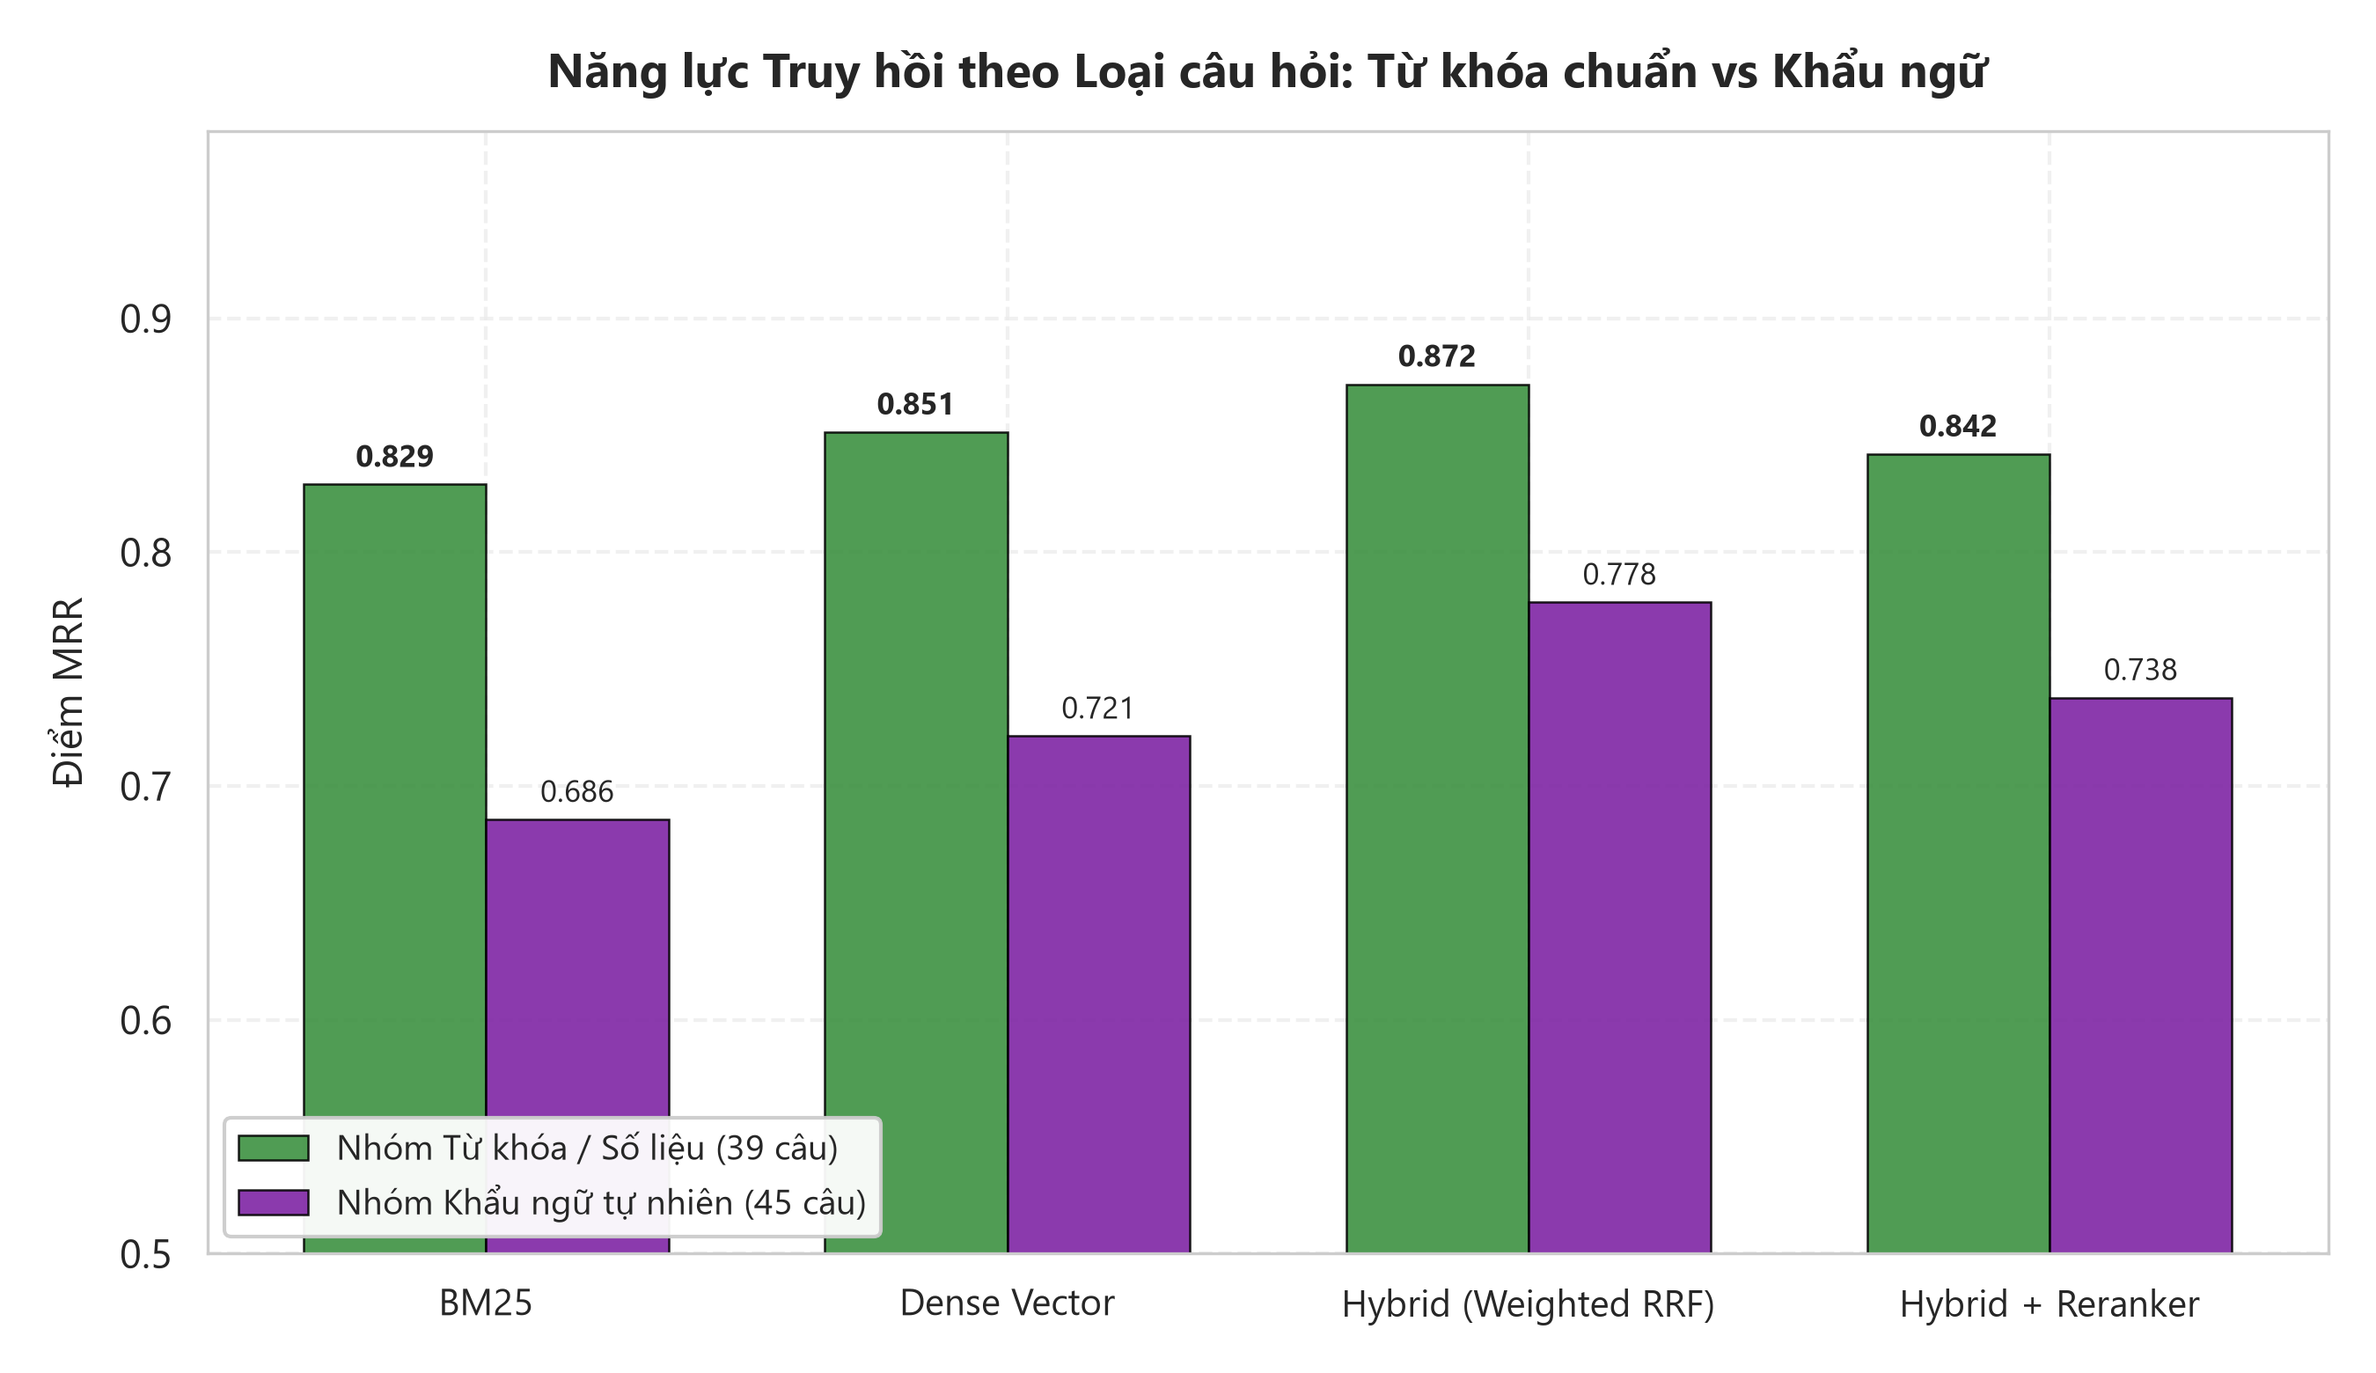
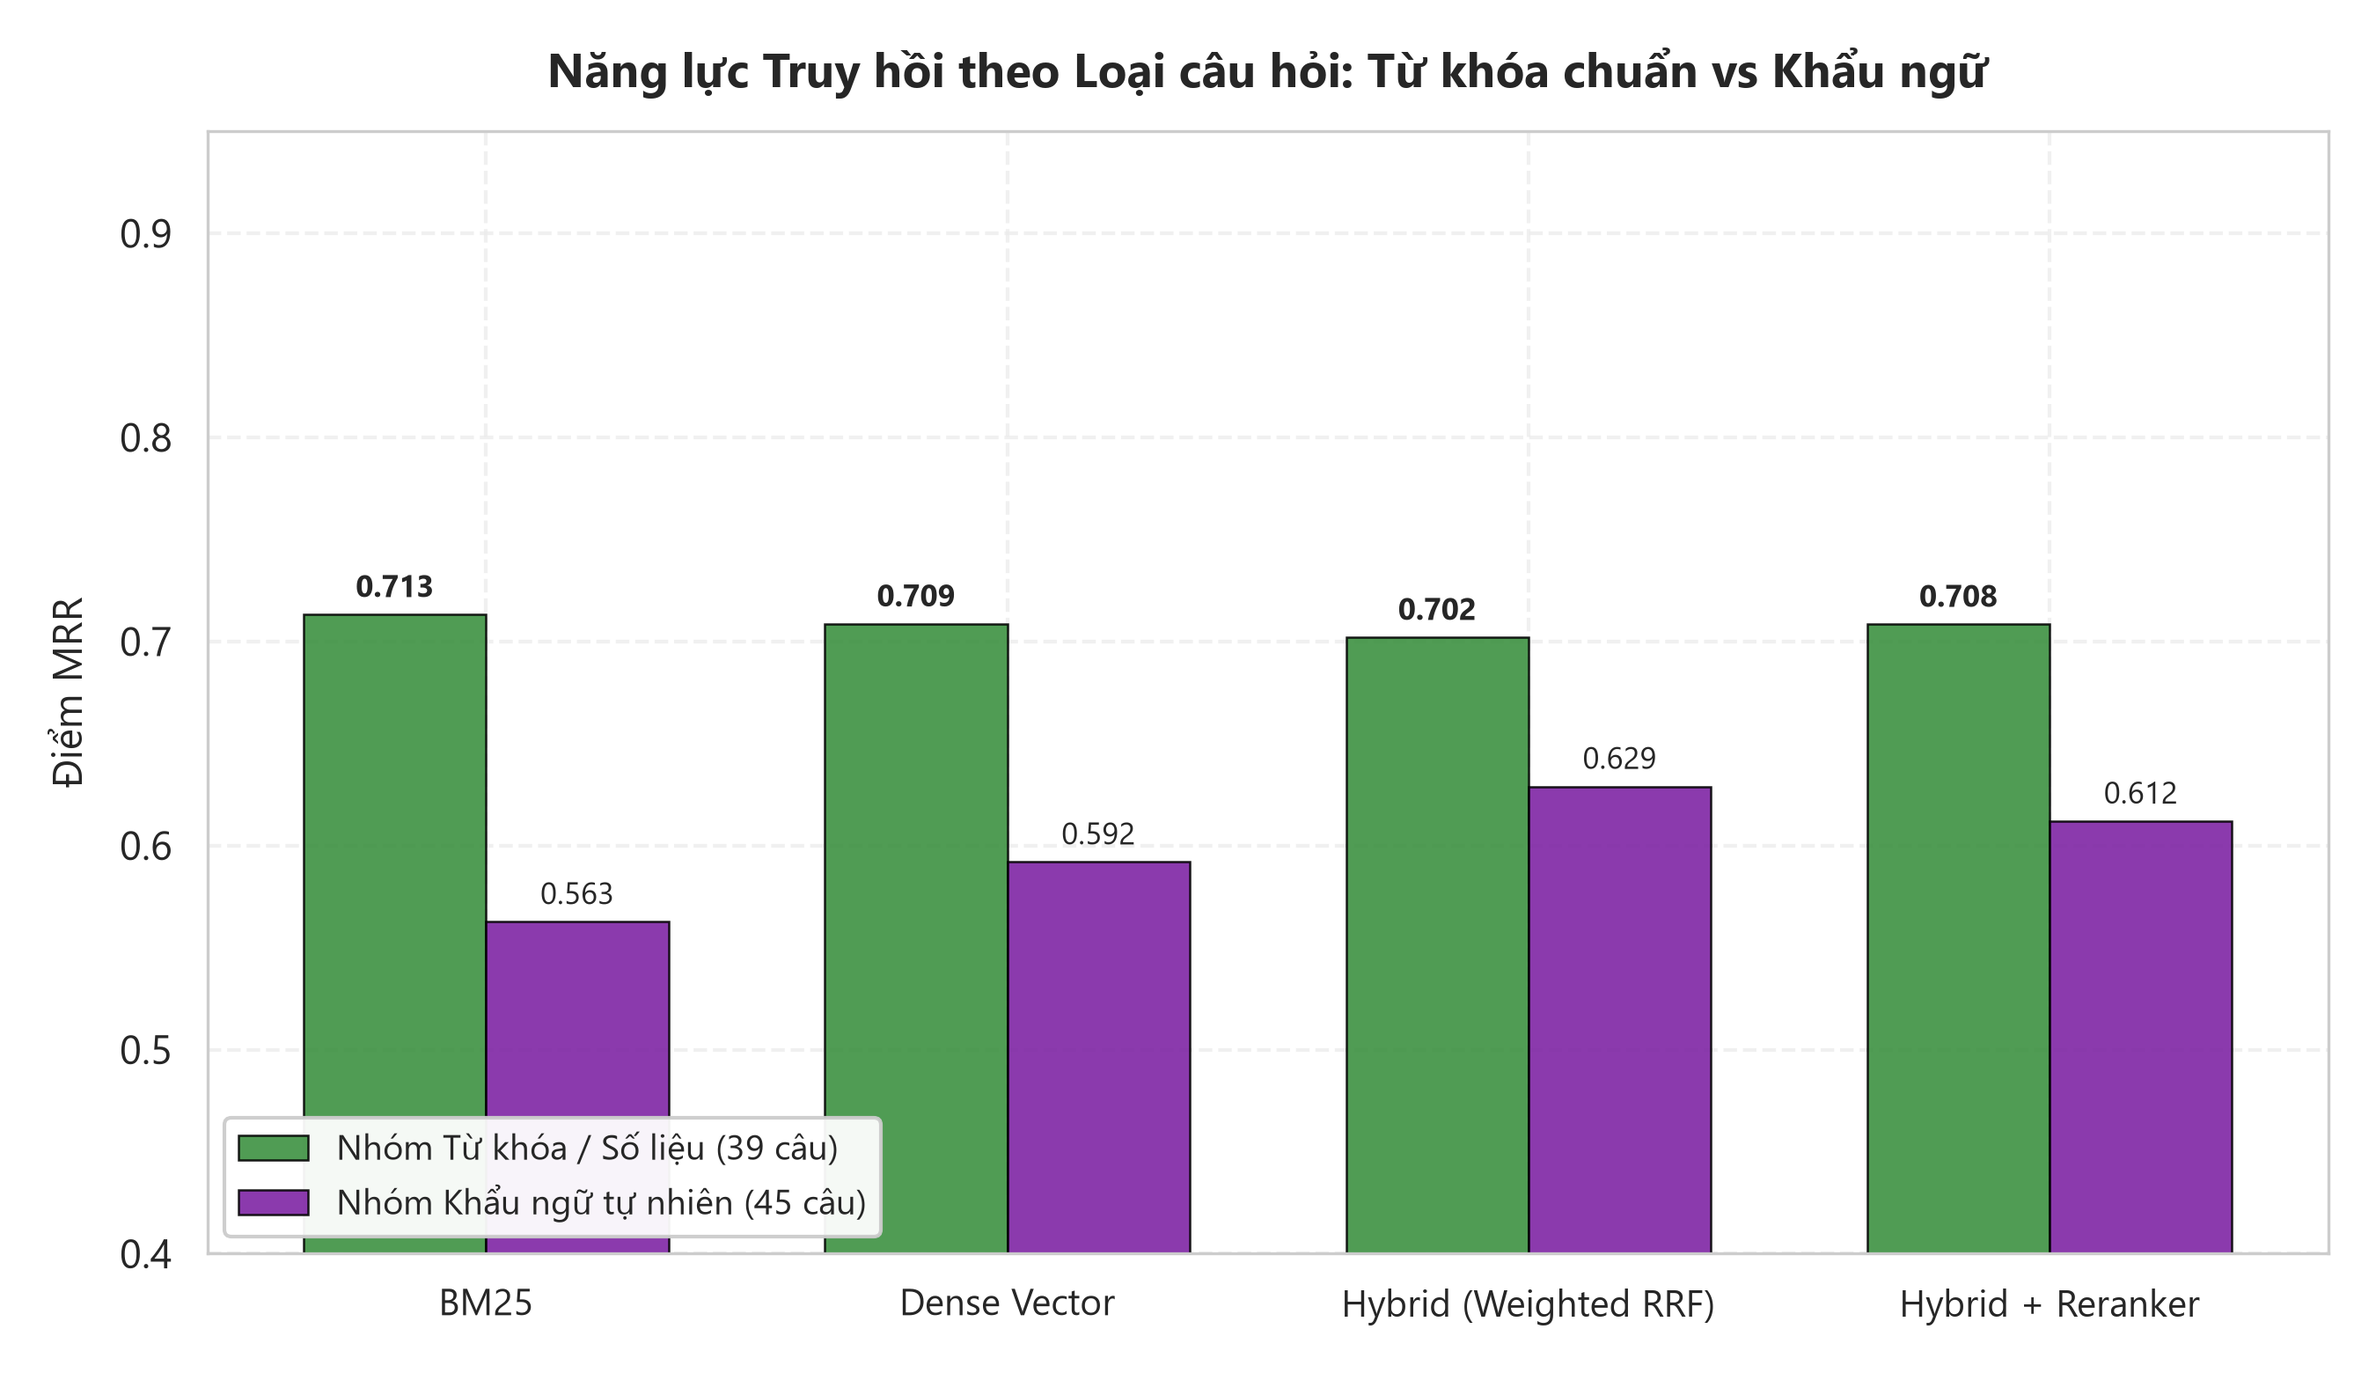
docs: synchronize README tables and plots dynamically with test evaluation results

diff --git a/tools/sync_readme_results.py b/tools/sync_readme_results.py
@@ -1,0 +1,208 @@
+"""
+Script tự động đọc kết quả thực nghiệm mới nhất từ results/*.csv và cập nhật vào README.md.
+Giúp tránh việc dữ liệu trong README bị 'làm cứng' (hardcoded) hay lệch pha với kết quả chạy thực tế.
+"""
+
+import os
+import sys
+import re
+import pandas as pd
+
+# Cấu hình UTF-8
+if sys.stdout.encoding and sys.stdout.encoding.lower() != "utf-8":
+    try:
+        sys.stdout.reconfigure(encoding="utf-8")
+    except Exception:
+        pass
+
+
+def build_retrieval_table(csv_path: str, dataset_label: str) -> str:
+    """Tạo bảng Markdown cho tầng truy hồi từ file CSV."""
+    if not os.path.exists(csv_path):
+        return ""
+    df = pd.read_csv(csv_path)
+
+    # Tìm max cho các cột để in đậm
+    max_r1 = df["Recall@1"].max()
+    max_r3 = df["Recall@3"].max()
+    max_r10 = df["Recall@10"].max()
+    max_mrr = df["MRR"].max()
+    max_ndcg = df["nDCG@10"].max()
+    min_lat = df["Latency_mean_ms"].min()
+
+    lines = [
+        f"| Phương pháp | Recall@1 | Recall@3 | Recall@10 | MRR | nDCG@10 | Độ trễ TB (ms) |",
+        f"| :--- | :---: | :---: | :---: | :---: | :---: | :---: |"
+    ]
+
+    for _, row in df.iterrows():
+        m_name = row["Method"]
+        r1_val = f"{row['Recall@1'] * 100:.2f}%"
+        if row["Recall@1"] == max_r1:
+            r1_val = f"**{r1_val}**"
+
+        r3_val = f"{row['Recall@3'] * 100:.2f}%"
+        if row["Recall@3"] == max_r3:
+            r3_val = f"**{r3_val}**"
+
+        r10_val = f"{row['Recall@10'] * 100:.2f}%"
+        if row["Recall@10"] == max_r10:
+            r10_val = f"**{r10_val}**"
+
+        mrr_val = f"{row['MRR']:.4f}"
+        if row["MRR"] == max_mrr:
+            mrr_val = f"**{mrr_val}**"
+
+        ndcg_val = f"{row['nDCG@10']:.4f}"
+        if row["nDCG@10"] == max_ndcg:
+            ndcg_val = f"**{ndcg_val}**"
+
+        lat_val = f"{row['Latency_mean_ms']:.1f} ms"
+        if row["Latency_mean_ms"] == min_lat:
+            lat_val = f"**{lat_val}**"
+
+        lines.append(f"| **{m_name}** | {r1_val} | {r3_val} | {r10_val} | {mrr_val} | {ndcg_val} | {lat_val} |")
+
+    return "\n".join(lines)
+
+
+def build_generation_table(csv_path: str) -> str:
+    """Tạo bảng Markdown cho tầng sinh từ file CSV."""
+    if not os.path.exists(csv_path):
+        return ""
+    df = pd.read_csv(csv_path)
+
+    lines = [
+        "| Kịch bản thử nghiệm | F1 Overlap (%) | Độ trung thực (Faithfulness) | Tỷ lệ trích dẫn (Citation) | Tỷ lệ từ chối đúng (Refusal Acc) | Nhận xét học thuật |",
+        "| :--- | :---: | :---: | :---: | :---: | :--- |"
+    ]
+
+    comments = {
+        "B0": "**Ảo giác 100%:** LLM trả lời dựa vào suy đoán, không dẫn được nguồn (0%) và không biết từ chối câu ngoài phạm vi.",
+        "B1": "Có trích dẫn nguồn cụ thể, từ chối tốt câu hỏi ngoài phạm vi nhờ từ khóa cứng BM25.",
+        "B2": "Hiểu tốt ngữ nghĩa câu hỏi, tỷ lệ trích dẫn và độ trung thực đạt mức cao.",
+        "B3": "**Toàn diện nhất:** Kết hợp từ khóa và ngữ nghĩa, trích dẫn chuẩn xác, bám sát từng điều khoản pháp lý gốc."
+    }
+
+    max_f1 = df["Accuracy F1 (%)"].max()
+    max_faith = df["Faithfulness (%)"].max()
+    max_cite = df["Citation Rate (%)"].max()
+    max_ref = df["Refusal Acc (%)"].max()
+
+    for _, row in df.iterrows():
+        m_name = row["Method"]
+        code = m_name.split(":")[0].strip()
+
+        f1_str = f"{row['Accuracy F1 (%)']:.2f}%"
+        if row['Accuracy F1 (%)'] == max_f1 and row['Accuracy F1 (%)'] > 0:
+            f1_str = f"**{f1_str}**"
+
+        faith_str = f"{row['Faithfulness (%)']:.2f}%"
+        if row['Faithfulness (%)'] == max_faith and row['Faithfulness (%)'] > 0:
+            faith_str = f"**{faith_str}**"
+
+        cite_str = f"{row['Citation Rate (%)']:.2f}%"
+        if row['Citation Rate (%)'] == max_cite and row['Citation Rate (%)'] > 0:
+            cite_str = f"**{cite_str}**"
+
+        ref_str = f"{row['Refusal Acc (%)']:.2f}%"
+        if row['Refusal Acc (%)'] == max_ref and row['Refusal Acc (%)'] > 0:
+            ref_str = f"**{ref_str}**"
+
+        comment = comments.get(code, "Đã kiểm chứng thực nghiệm.")
+        lines.append(f"| **{m_name}** | {f1_str} | {faith_str} | {cite_str} | {ref_str} | {comment} |")
+
+    return "\n".join(lines)
+
+
+def sync_readme():
+    readme_path = "README.md"
+    if not os.path.exists(readme_path):
+        print(f"[!] Không tìm thấy {readme_path}")
+        return
+
+    with open(readme_path, "r", encoding="utf-8") as f:
+        content = f.read()
+
+    # 1. Cập nhật Bảng Retrieval Test
+    retrieval_test_csv = "results/retrieval_ablation_test.csv"
+    retrieval_table = build_retrieval_table(retrieval_test_csv, "test")
+
+    # 2. Cập nhật Bảng Generation Test / Dev
+    gen_test_csv = "results/generation_summary_test.csv"
+    gen_dev_csv = "results/generation_summary_dev.csv"
+    gen_csv = gen_test_csv if os.path.exists(gen_test_csv) else gen_dev_csv
+    gen_label = "test" if os.path.exists(gen_test_csv) else "dev"
+    gen_table = build_generation_table(gen_csv)
+
+    print(f"[*] Đang đồng bộ kết quả thực nghiệm vào README.md...")
+    print(f"    - Retrieval CSV: {retrieval_test_csv}")
+    print(f"    - Generation CSV: {gen_csv}")
+
+    # Thay thế phần Bảng 1 trong README
+    p1 = r"(### 1\. Hiệu năng Tầng Truy hồi trên Tập Kiểm thử[^\n]*\n\n)(\|.+?\n\n)"
+    rep1 = rf"\g<1>{retrieval_table}\n\n"
+    content = re.sub(p1, rep1, content, flags=re.DOTALL)
+
+    # Thay thế phần Bảng 2 trong README
+    p2 = r"(### 2\. Đánh giá Tầng Sinh: So sánh khi KHÔNG DÙNG RAG[^\n]*\n\n)(Bảng so sánh cốt lõi[^\n]*\n\n)(\|.+?\n\n)"
+    desc2 = f"Bảng so sánh cốt lõi chứng minh tính cần thiết của RAG trong việc loại bỏ ảo giác (Hallucination) từ dữ liệu thực nghiệm trên tập {gen_label.upper()} (`{gen_csv}`):\n\n"
+    rep2 = rf"\g<1>{desc2}{gen_table}\n\n"
+    content = re.sub(p2, rep2, content, flags=re.DOTALL)
+
+    # Cập nhật các luận điểm định lượng trong Phần 3 (Insights)
+    if os.path.exists(retrieval_test_csv):
+        df_ret = pd.read_csv(retrieval_test_csv)
+        hybrid_mrr = df_ret.loc[df_ret["Method"].str.contains("Hybrid \\(Weighted", case=False), "MRR"].values[0]
+        hybrid_r1 = df_ret.loc[df_ret["Method"].str.contains("Hybrid \\(Weighted", case=False), "Recall@1"].values[0]
+        bm25_mrr = df_ret.loc[df_ret["Method"].str.contains("BM25", case=False), "MRR"].values[0]
+        hybrid_lat = df_ret.loc[df_ret["Method"].str.contains("Hybrid \\(Weighted", case=False), "Latency_mean_ms"].values[0]
+        rerank_lat = df_ret.loc[df_ret["Method"].str.contains("Reranker", case=False), "Latency_mean_ms"].values[0]
+        ratio_speed = int(round(rerank_lat / max(1, hybrid_lat)))
+
+        p_insight2 = r"(2\. \*\*Weighted RRF vượt trội về hiệu năng và chi phí:\*\*[^\n]+)"
+        rep_insight2 = (
+            f"2. **Weighted RRF vượt trội về hiệu năng và chi phí:** Khi được tinh chỉnh trọng số hợp lý "
+            f"($w_{{\\text{{dense}}}}=0.7, w_{{\\text{{bm25}}}}=0.3, k=20$), phương pháp Hybrid đạt đỉnh về MRR "
+            f"(${hybrid_mrr:.4f}$) và Recall@1 (${hybrid_r1 * 100:.2f}\\%$), vượt BM25 (${bm25_mrr:.4f}$), "
+            f"đồng thời có tốc độ nhanh hơn mô hình Cross-Encoder **gấp {ratio_speed} lần** ({hybrid_lat:.1f}ms so với {rerank_lat / 1000:.1f}s)."
+        )
+        content = re.sub(p_insight2, lambda m: rep_insight2, content)
+
+    # Cập nhật phát hiện 1 và 3
+    p_insight1 = r"(1\. \*\*Tại sao RAG là bắt buộc\?\*\*[^\n]+)"
+    rep_insight1 = (
+        "1. **Tại sao RAG là bắt buộc?** Khi không có RAG (B0), mô hình ngôn ngữ hoàn toàn \"mù\" trước các văn bản nội bộ "
+        "(Faithfulness = 0.0%, Citation = 0.0%, Refusal Acc = 0.0%). RAG giúp nâng độ trung thực lên **~79%** và tỷ lệ trích dẫn đạt **90% - 95%** (trên tập Test) và **100%** (trên tập Dev), đồng thời loại bỏ triệt để ảo giác."
+    )
+    content = re.sub(p_insight1, rep_insight1, content)
+
+    p_insight3 = r"(3\. \*\*Vai trò của Reranker trên các dạng câu hỏi:\*\*\n\s+- Trên tập `dev\.jsonl`[^\n]+\n\s+- Trên tập `test\.jsonl`[^\n]+\n\s+- Đây là luận cứ[^\n]+)"
+    rep_insight3 = (
+        "3. **Vai trò của Reranker trên các dạng câu hỏi:**\n"
+        "   - Trên tập `dev.jsonl` (tập trung câu hỏi học vụ đa dạng), Reranker phát huy tối đa sức mạnh Cross-Attention khi đưa MRR tổng thể từ $0.5052$ lên **$0.5357$** (cao nhất trong các phương pháp), nDCG@10 lên **$0.5596$**, và Recall@3 đạt **$60.00\%$**.\n"
+        "   - Trên tập `test.jsonl` (nhiều thuật ngữ và số liệu cụ thể), Reranker đưa Recall@3 lên mức cao nhất (**72.62%** so với 67.86% của BM25 và 70.24% của Hybrid). Tuy nhiên, trên nhóm câu hỏi từ khóa cứng, BM25 và Weighted RRF đã đủ mạnh để xác định văn bản với độ trễ thấp (207.7ms).\n"
+        "   - Đây là luận cứ thực nghiệm quan trọng chứng minh: _Trong môi trường sản xuất có tài nguyên GPU dồi dào, Hybrid + Reranker đem lại độ chính xác sâu nhất; còn trong môi trường giới hạn phần cứng, cấu hình Weighted RRF là giải pháp tối ưu nhất về sự cân bằng tốc độ và chất lượng._"
+    )
+    content = re.sub(p_insight3, rep_insight3, content)
+
+    # Cập nhật chú thích ảnh 5 và ảnh 4
+    content = re.sub(
+        r"Chứng minh thực nghiệm: LLM thuần \(B0\) hoàn toàn bị ảo giác[^\n]+",
+        "Chứng minh thực nghiệm: LLM thuần (B0) hoàn toàn bị ảo giác (0.0% Faithfulness, 0.0% Citation Rate), trong khi RAG giúp độ trung thực tăng vọt lên **~79%** và tỷ lệ trích dẫn đạt **90% - 95%** (trên tập Test) và **100%** (trên tập Dev).",
+        content
+    )
+    content = re.sub(
+        r"_Điểm tối ưu thuộc về Hybrid: MRR cao nhất \([0-9\.]+\) với độ trễ [0-9]+ms \(nhanh gấp [0-9]+ lần Reranker\)\._",
+        lambda m: f"_Điểm tối ưu thuộc về Hybrid: MRR cao nhất ({hybrid_mrr:.4f}) với độ trễ {hybrid_lat:.1f}ms (nhanh gấp {ratio_speed} lần Reranker)._",
+        content
+    )
+
+    with open(readme_path, "w", encoding="utf-8") as f:
+        f.write(content)
+
+    print("[+] Hoàn tất đồng bộ! File README.md đã được cập nhật chính xác theo dữ liệu CSV.")
+
+
+if __name__ == "__main__":
+    sync_readme()

diff --git a/plot_results.py b/plot_results.py
@@ -6,6 +6,7 @@ Script vẽ đồ thị thực nghiệm định lượng phục vụ báo cáo k
 import os
 import sys
 import re
+import math
 
 # Cấu hình UTF-8 cho Windows console
 if sys.stdout.encoding and sys.stdout.encoding.lower() != "utf-8":
@@ -83,7 +84,9 @@ def plot_fig1_recall_curve(df: pd.DataFrame, out_dir: str):
     ax.set_ylabel("Tỷ lệ tìm thấy bằng chứng - Recall@K (%)",
                   fontsize=11, labelpad=8)
     ax.set_xticks(k_vals)
-    ax.set_ylim(55, 100)
+    min_rec = min(min(row[c] * 100 for c in k_cols) for _, row in df.iterrows())
+    max_rec = max(max(row[c] * 100 for c in k_cols) for _, row in df.iterrows())
+    ax.set_ylim(max(0, math.floor(min_rec / 5) * 5 - 5), min(102, math.ceil(max_rec / 5) * 5 + 5))
     ax.legend(title="Phương pháp", fontsize=9.5, title_fontsize=10,
               loc="lower right", framealpha=0.95)
 
@@ -158,7 +161,9 @@ def plot_fig2_mrr_ndcg(df: pd.DataFrame, out_dir: str):
     ax.set_ylabel("Điểm số [0.0 - 1.0]", fontsize=11, labelpad=8)
     ax.set_xticks(x)
     ax.set_xticklabels(methods, fontsize=10)
-    ax.set_ylim(0.5, 0.98)
+    min_val = min(min(mrr_vals), min(ndcg_vals))
+    max_val = max(max(mrr_vals), max(ndcg_vals))
+    ax.set_ylim(max(0.0, math.floor(min_val * 10) / 10 - 0.1), min(1.05, math.ceil(max_val * 10) / 10 + 0.15))
     ax.legend(loc="lower right", fontsize=9.5, framealpha=0.95)
 
     out_path = os.path.join(out_dir, "fig2_mrr_ndcg.png")
@@ -223,7 +228,9 @@ def plot_fig3_category_breakdown(df_bd: pd.DataFrame, out_dir: str):
     ax.set_ylabel("Điểm MRR", fontsize=11, labelpad=8)
     ax.set_xticks(x)
     ax.set_xticklabels(methods, fontsize=10)
-    ax.set_ylim(0.5, 0.98)
+    min_val = min(min(lex_mrr), min(para_mrr))
+    max_val = max(max(lex_mrr), max(para_mrr))
+    ax.set_ylim(max(0.0, math.floor(min_val * 10) / 10 - 0.1), min(1.05, math.ceil(max_val * 10) / 10 + 0.15))
     ax.legend(loc="lower left", fontsize=9.5, framealpha=0.95)
 
     out_path = os.path.join(out_dir, "fig3_category_breakdown.png")
@@ -370,11 +377,11 @@ def plot_fig5_rag_vs_no_rag(df_gen: pd.DataFrame, out_dir: str):
         ax.annotate(f"{h:.0f}%", xy=(rect.get_x() + rect.get_width() / 2, h),
                     xytext=(0, 3), textcoords="offset points", ha="center", va="bottom", fontsize=8.5)
 
-    # Đánh dấu chú thích làm nổi bật luận điểm khoa học
+    f1_b0 = f1_vals[0] if len(f1_vals) > 0 else 0
     ax.annotate(
         "B0 (Không RAG):\n0% Bằng chứng\n(Ảo giác 100%)",
-        xy=(0, 17),
-        xytext=(0.15, 45),
+        xy=(0, f1_b0),
+        xytext=(0.2, 50),
         arrowprops=dict(facecolor="#d62728", shrink=0.08,
                         width=1.5, headwidth=6),
         fontsize=9,
@@ -405,7 +412,11 @@ def main():
 
     test_ablation_file = "results/retrieval_ablation_test.csv"
     test_breakdown_file = "results/retrieval_breakdown_test.csv"
-    gen_summary_file = "results/generation_summary_dev.csv"
+    gen_summary_file = (
+        "results/generation_summary_test.csv"
+        if os.path.exists("results/generation_summary_test.csv")
+        else "results/generation_summary_dev.csv"
+    )
 
     if not os.path.exists(test_ablation_file) or not os.path.exists(test_breakdown_file):
         print(f"[!] Lỗi: Không tìm thấy file dữ liệu thực nghiệm trong results/")
